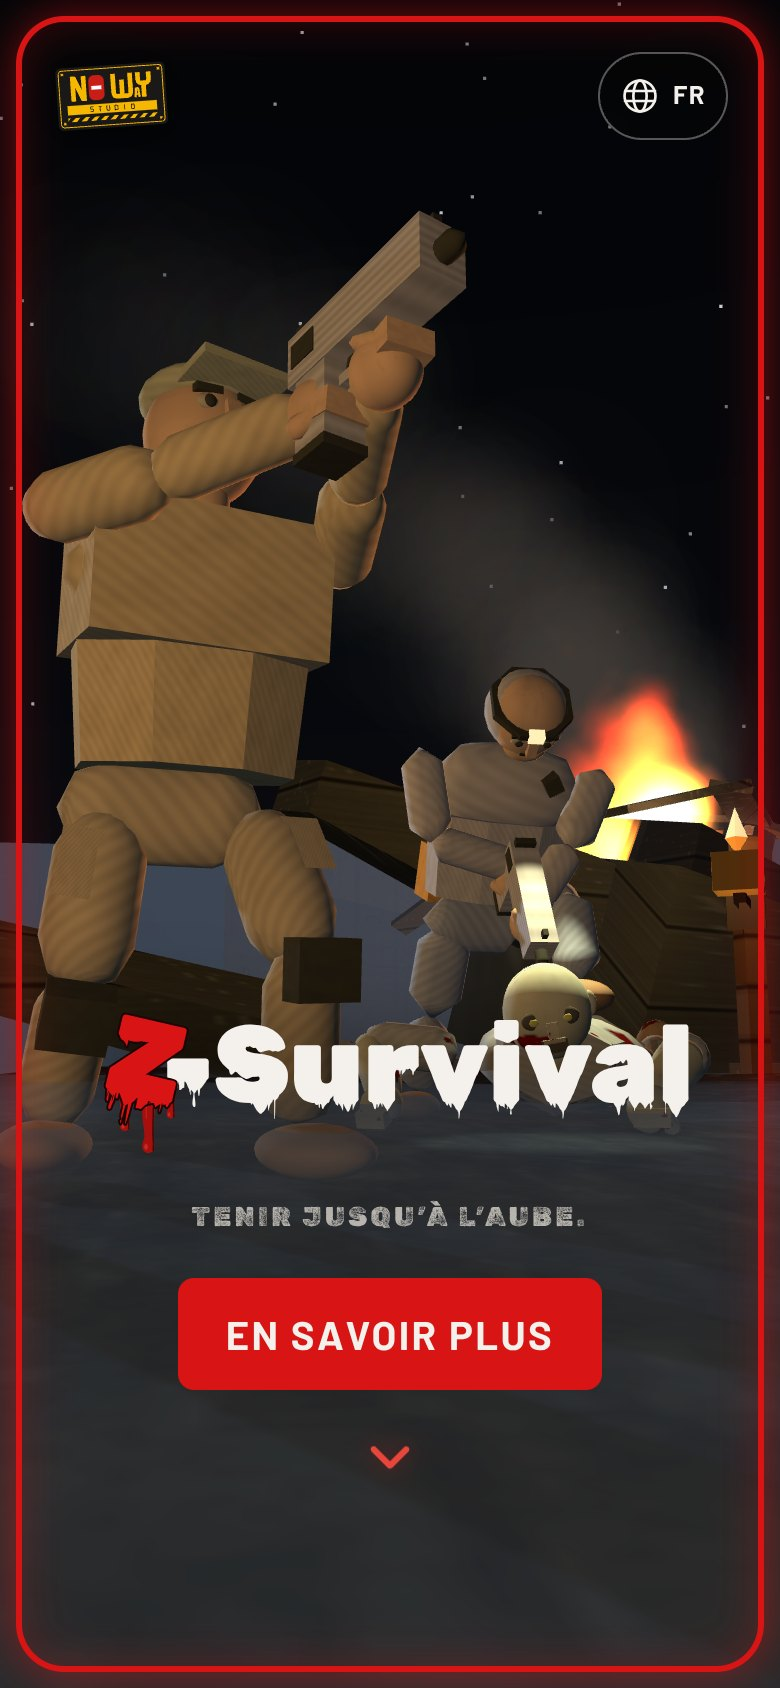
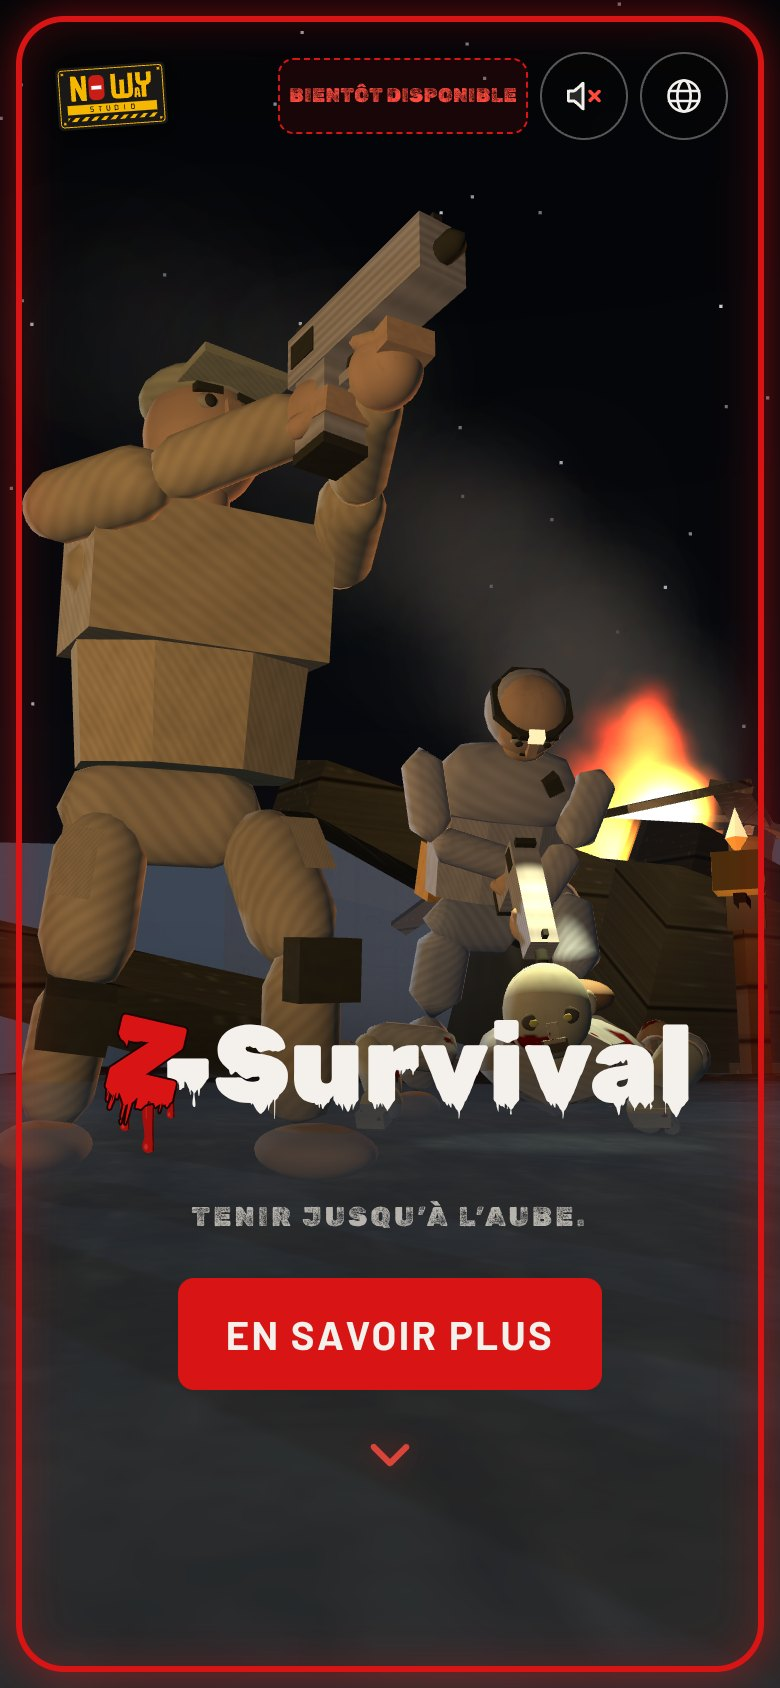
Lot 1, retours : aperçus refaits avec l'accueil actuel du site
Claude-Session: https://claude.ai/code/session_01MNJ5sjUGh1ZP7ZtMtEWThH

Changed region(s): [[0.3385, 0.0308, 0.6769, 0.0924], [0.7077, 0.0308, 0.8923, 0.0924], [0.4923, 0.8626, 0.5231, 0.8934]]

diff --git a/scene/planche.html b/scene/planche.html
@@ -15,7 +15,7 @@
     <p class="marque">Atelier · lot 1 · retours</p>
     <h1 class="titre">Planche de la scène</h1>
     <p class="intro">Cadrage retenu : <strong>B, contre-plongée rapprochée</strong>. La scène est posée sous la <strong>vraie page
-      d'accueil du site</strong> (cadre rouge, logo du studio, globe, logo Z-Survival, accroche, bouton, flèche) pour juger le rendu final.
+      d'accueil du site</strong> (cadre rouge, logo du studio, « Bientôt disponible », bouton du son, globe, logo Z-Survival, accroche, bouton, flèche) pour juger le rendu final.
       La boucle dure <strong>8 secondes</strong> ; le personnage 1 tire une fois par boucle (vers 5,2 s).</p>
     <p class="provisoire">Provisoire : page de travail, hors du site (non indexée, aucun lien depuis l'accueil). Ici la scène tourne en
       direct ; au lot 2 ce sera une vidéo en boucle.</p>

diff --git a/Docs/lots/lot-1-retours.md b/Docs/lots/lot-1-retours.md
@@ -39,7 +39,8 @@ Suite du lot 1 (`Docs/lots/lot-1.md`). Branche `lot-1-retours`, PR fusionnée pa
   **variante B du jeu, « civil débrouillard »** : capuche, sac de sport, sweat gris clair à accent orange, et **lampe frontale
   allumée**, qui éclaire faiblement le zombie. Les enrichissements (visage, bras, pistolet, textures 512 px) valent aussi pour cette
   variante.
-- **Aperçu avec le site** : `scene/apercu.html`.
+- **Aperçu avec le site** : `scene/apercu.html` (accueil actuel : cadre rouge, logo du studio, « Bientôt disponible », bouton du son,
+  globe, logo Z-Survival, accroche, bouton, flèche).
   - La scène tourne en fond, plein écran, et la **vraie page d'accueil du site** est chargée par-dessus, telle quelle.
   - Dans l'aperçu seulement, une feuille de style rend le fond de l'accueil transparent et masque la mention « Image animée — à venir ».
     Le site lui-même n'est pas modifié.
